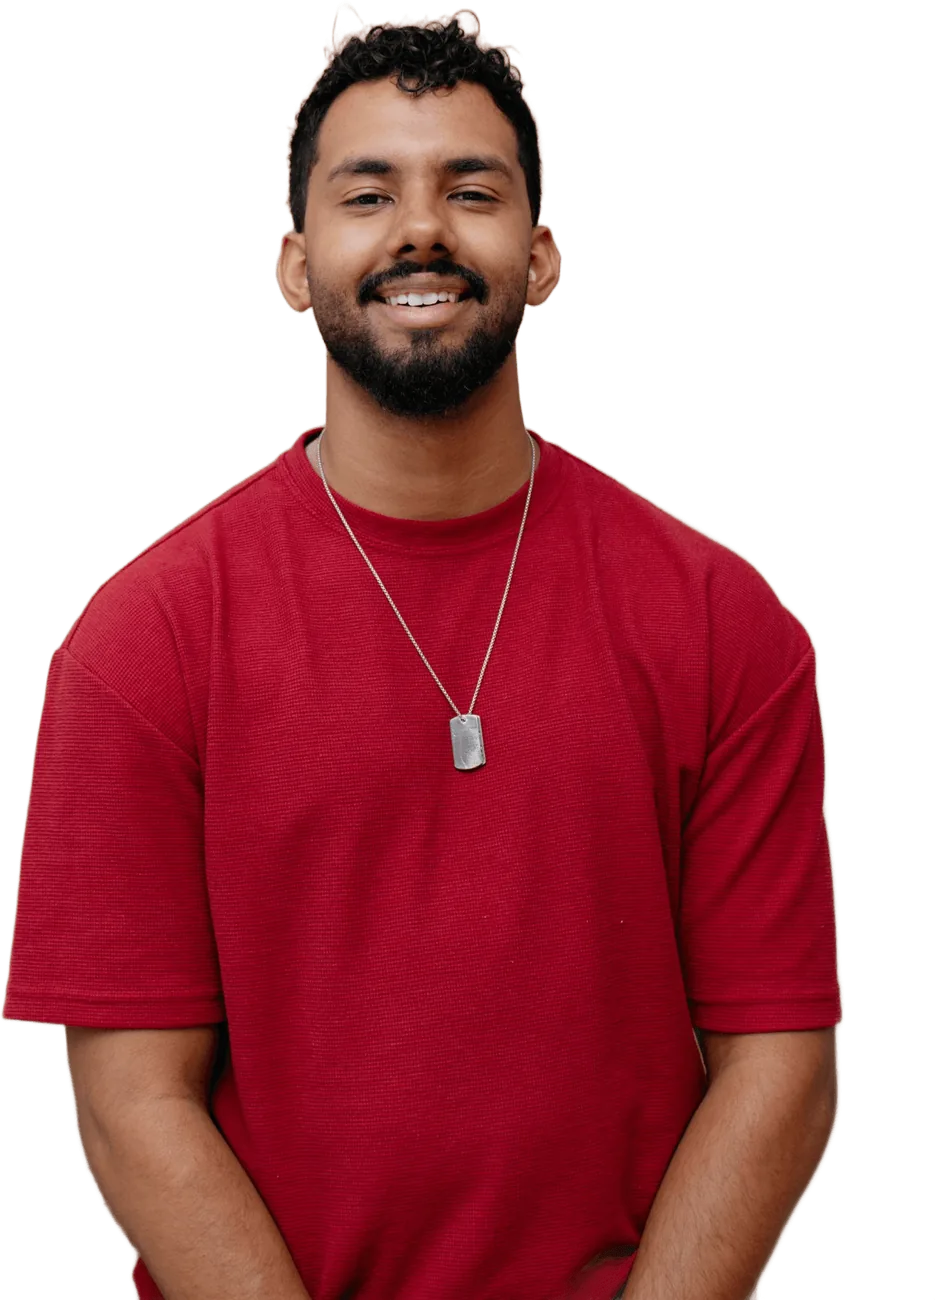
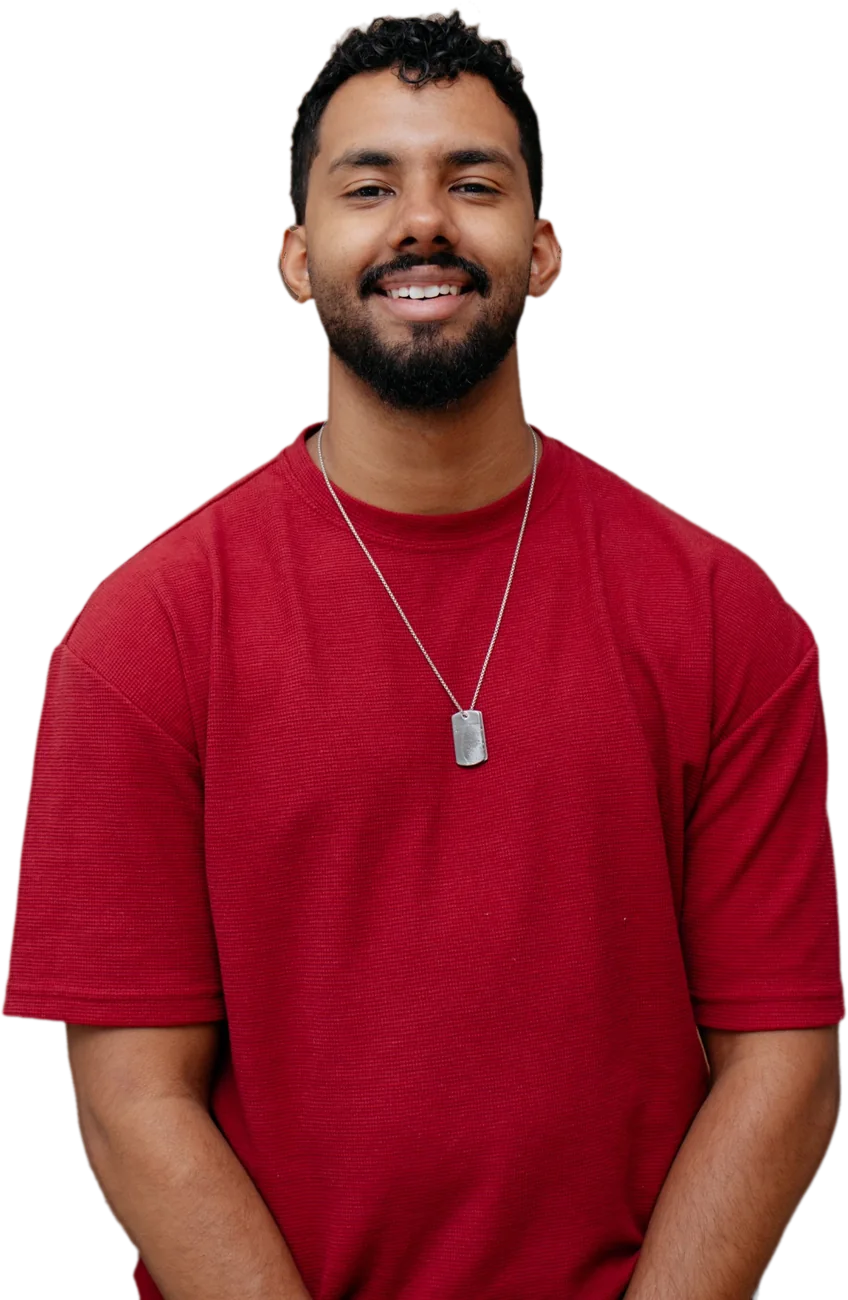
Portfólio: recorte limpo no cabelo, SENAI cortado nos braços e música pausa ao sair
- Fotos novas sem a franja clara do fundo no cabelo (borda encolhida
  e cor do fundo tirada da faixa da borda).
- Foto do SENAI cortada logo abaixo dos braços cruzados.
- A trilha pausa quando a pessoa sai da página e volta sozinha.

Claude-Session: https://claude.ai/code/session_014W28W38KCvwRPbR1wzYgEP

diff --git a/index.html b/index.html
@@ -243,7 +243,7 @@
             .dica { left: auto; right: var(--m); bottom: auto; top: 76px; }
             .legenda { right: var(--m); }
             .legenda p.sobre { font-size: 17px; }
-            .c1 .pessoa { right: 2vw; height: 60svh; }
+            .c1 .pessoa { right: 2vw; height: 52svh; }
             .c1 .legenda { bottom: 9svh; }
             .c2 .pessoa { width: 130vw; margin-left: -15vw; }
             .c2 .legenda { top: 12svh; }
@@ -326,7 +326,7 @@
                 <div class="miolo">
                     <div class="foto-fundo"><img src="assets/img/code-1076536_1280.jpg" alt="" width="1280" height="853"></div>
                     <span class="ano" aria-hidden="true">2018</span>
-                    <div class="pessoa"><img src="assets/img/cenas/bracos-recorte.webp" alt="Carlos Jessé de braços cruzados, camiseta vermelha" width="658" height="1300"></div>
+                    <div class="pessoa"><img src="assets/img/cenas/bracos-recorte.webp" alt="Carlos Jessé de braços cruzados, camiseta vermelha" width="889" height="1215"></div>
                     <div class="legenda">
                         <p class="quando">2018 a 2019 · SENAI</p>
                         <h2 id="t-senai">Onde começou</h2>

diff --git a/assets/js/cenas.js b/assets/js/cenas.js
@@ -17,6 +17,12 @@ $('#som').addEventListener('click', () => {
     $('#som').setAttribute('aria-pressed', String(ligar));
     $('#somEstado').textContent = ligar ? 'ligado' : 'desligado';
 });
+// saiu da página (outra aba, app minimizado): a música pausa; voltou: continua de onde estava
+let pausadaAoSair = false;
+document.addEventListener('visibilitychange', () => {
+    if (document.hidden && trilha.ligada) { trilha.desligar(); pausadaAoSair = true; }
+    else if (!document.hidden && pausadaAoSair) { trilha.ligar(); pausadaAoSair = false; }
+});
 
 // ---------- o crachá ----------
 let cracha = null;
